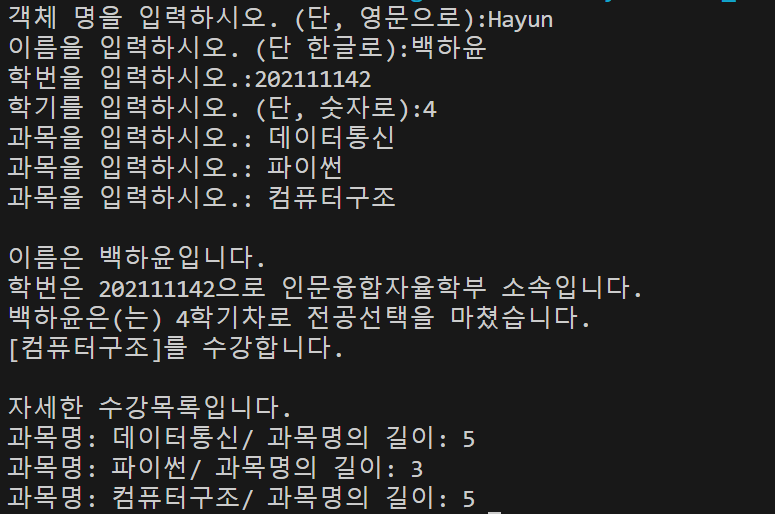
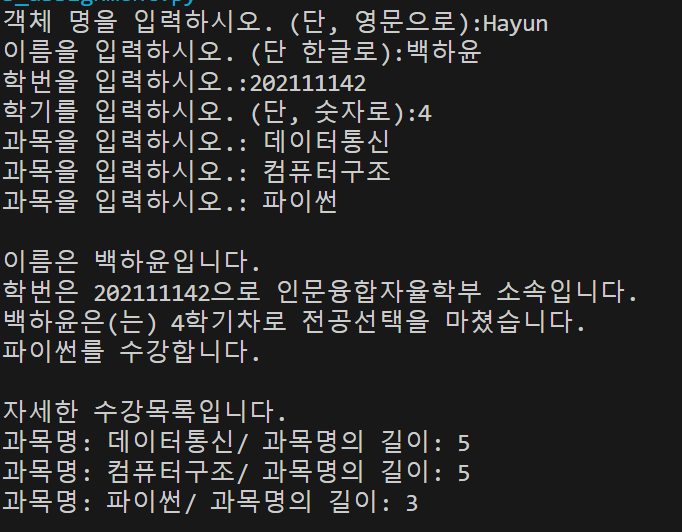
assignment06 최종

diff --git a/baekhayun/class_assignment.py b/baekhayun/class_assignment.py
@@ -11,13 +11,33 @@ class Student:
         print(f'이름은 {self.name}입니다.')
 
     def print_schoolNum(self):
-        print(f'학번은 {self.schoolNum}으로 {result}')
+        #입력받은 학번 중 6번째 숫자로 소속학부 판별하기
+        a = int(schoolNum[5:6])
+        if a == 1:
+            return(f'학번은 {self.schoolNum}으로 인문융합자율학부 소속입니다.')
+        elif a == 2:
+            return(f'학번은 {self.schoolNum}으로 사회융합자율학부 소속입니다.')
+        elif a == 3:
+            return(f'학번은 {self.schoolNum}으로 미디어융합자율학부 소속입니다.')
+        elif a == 4:
+            return(f'학번은 {self.schoolNum}으로 it융합자율학부 소속입니다.')
+        else:
+            return('오류입니다.')
     
     def print_semester(self):
+        if semester < 4 :
+            result2 = '전공선택 전입니다.'
+        else:
+            result2 = '전공선택을 마쳤습니다.'
         print(f'{self.name}은(는) {self.semester}학기차로 {result2}')
 
     def print_subject(self):
-        print(f'[{self.subject}]를 수강합니다.')
+        return(f'{self.subject}를 수강합니다.')
+    
+def subject_info(subjects_dict):
+    print('자세한 수강목록입니다.')
+    for key, value in subjects_dict.items():
+        print(f"과목명: {key}/ 과목명의 길이: {value}")
 
 
 # while 반복문 사용하기
@@ -30,24 +50,8 @@ while True:
     name = input("이름을 입력하시오. (단 한글로):")
 
     schoolNum = input("학번을 입력하시오.:")
-    #입력받은 학번 중 6번째 숫자로 소속학부 판별하기
-    a = int(schoolNum[5:6])
-    if a == 1:
-        result = '인문융합자율학부 소속입니다.'
-    elif a == 2:
-        result = '사회융합자율학부 소속입니다.'
-    elif a == 3:
-        result = '미디어융합자율학부 소속입니다.'
-    elif a == 4:
-        result = 'it융합자율학부 소속입니다.'
-    else:
-        result = '오류입니다.'
-
+    
     semester = int(input("학기를 입력하시오. (단, 숫자로):"))
-    if semester < 4 :
-        result2 = '전공선택 전입니다.'
-    else:
-        result2 = '전공선택을 마쳤습니다.'
 
     # 빈 딕셔너리, 리스트 생성
     subjects_list = []
@@ -56,27 +60,24 @@ while True:
     # 사용자로부터 과목명 입력 받아 Dict에 저장하여 출력하기
     for i in range(3):
         subject = input("과목을 입력하시오.: ")
-        subjects_list.append(subject)
-        length = len(subject)
-        subjects_dict[subject] = length
-    subjects_list = subject
+        for j in subject:
+            subjects_list.append(subject)
+        
+    for h in subjects_list:
+        subjects_dict[h] = len(h)
 
     print()
 
    # Student 클래스의 인스턴스 생성
-    student = Student(name, schoolNum, semester, subjects_list)
+    student = Student(name, schoolNum, semester, subject)
 
     student.print_name()
-    student.print_schoolNum()
+    print(student.print_schoolNum())
     student.print_semester()
-    student.print_subject()
+    print(student.print_subject())
 
     print()
 
-    print('자세한 수강목록입니다.')
-
-    def subject_info(subjects):
-        for key, value in subjects.items():
-            print(f"과목명: {key}/ 과목명의 길이: {value}")
-
     subject_info(subjects_dict)
+    
+    print()
